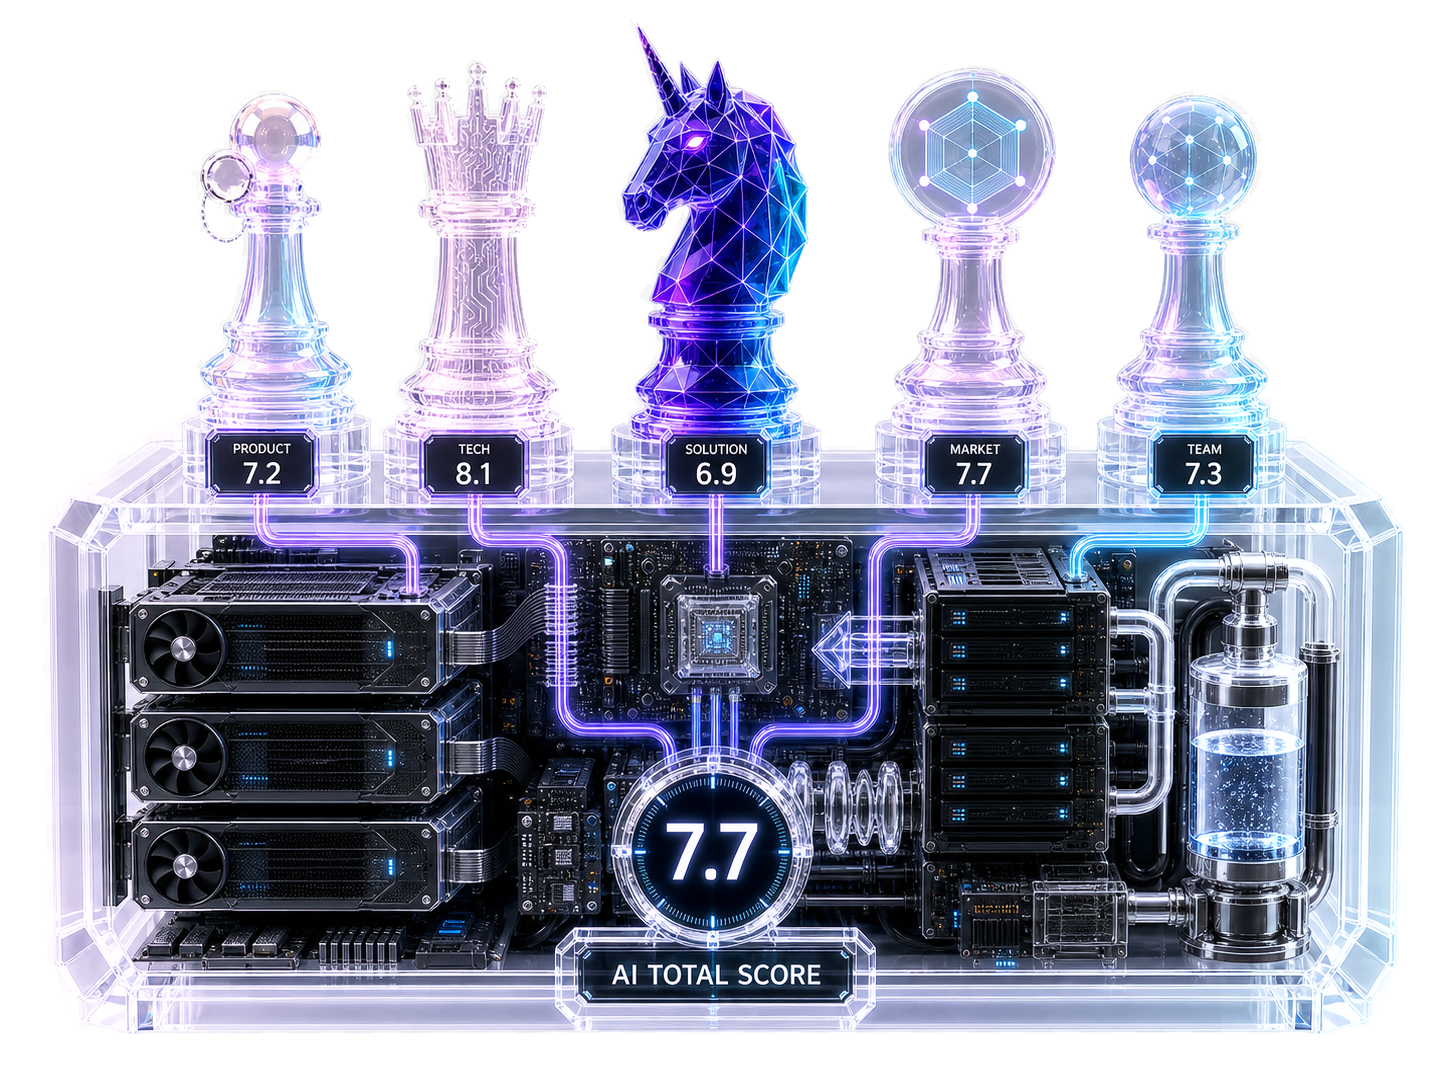
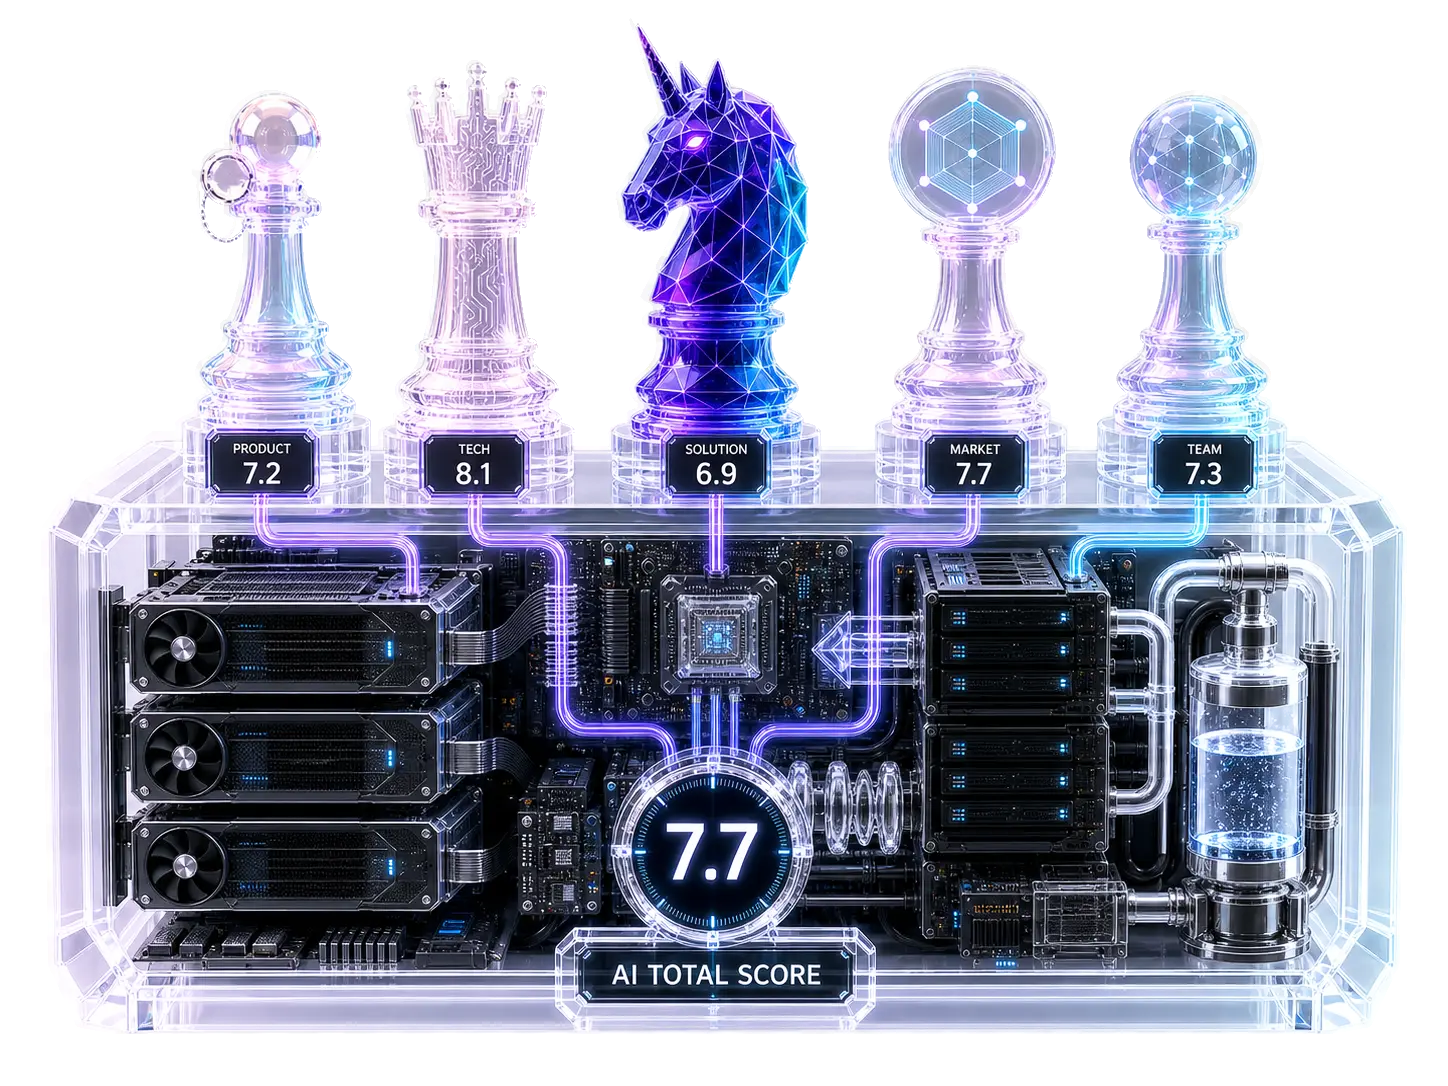
perf: media delivery — posters for 19 bg videos, heavy PNGs → webp
- every background video now ships a mid-frame webp poster (19 new, 24 call
  sites; props existed, were never passed)
- 4 heavy PNGs converted to webp (observatory 1.8MB→204KB, roadmap 1.36MB→382KB,
  panel-frame 1.17MB→639KB @1920px, pricing flatlay 655KB→207KB), originals dropped
- 2 oversized webp recompressed (score-machine 1.6MB→322KB, source-map 1.3MB→534KB)

diff --git a/web/src/app/trust/consistency-reliability/page.tsx b/web/src/app/trust/consistency-reliability/page.tsx
@@ -243,7 +243,10 @@ export default function ConsistencyReliabilityPage() {
           lines={["Reliable scoring is", "built, not assumed"]}
           mobileLines={["Reliable scoring", "is built,", "not assumed"]}
           sub="Fixed criteria, independent judges, deterministic aggregation, and visible disagreement make every result easier to inspect — reliability is engineered into the pipeline, not taken on faith."
-          media={{ videoSrc: "/assets/consistency/consistency-cta-bg.mp4" }}
+          media={{
+            videoSrc: "/assets/consistency/consistency-cta-bg.mp4",
+            poster: "/assets/consistency/consistency-cta-bg-poster.webp",
+          }}
         />
 
         {/* 4. Two layers — EditorialSplit, soft. */}
@@ -509,7 +512,11 @@ export default function ConsistencyReliabilityPage() {
             <div className="cr-bench-grid">
               <div className="cr-bench-video" aria-hidden="true">
                 {/* deep below the fold — viewport-gated fetch */}
-                <LazyVideo src="/assets/consistency/benchmark-bg.mp4" ariaHidden />
+                <LazyVideo
+                  src="/assets/consistency/benchmark-bg.mp4"
+                  poster="/assets/consistency/benchmark-bg-poster.webp"
+                  ariaHidden
+                />
               </div>
               <div className="cr-bench-col">
                 <BenchCard s={BENCHMARK_STATS[0]} />
@@ -627,6 +634,7 @@ export default function ConsistencyReliabilityPage() {
                     (not a continuous native loop) — see DelayedLoopVideo. */}
                 <DelayedLoopVideo
                   src="/assets/consistency/honest-edge-bg.mp4"
+                  poster="/assets/consistency/honest-edge-bg-poster.webp"
                   gap={7}
                 />
               </div>
@@ -655,6 +663,7 @@ export default function ConsistencyReliabilityPage() {
           headingLevel="h2"
           background="video"
           backgroundSrc="/assets/consistency/consistency-cta-bg-2.mp4"
+          backgroundPoster="/assets/consistency/consistency-cta-bg-2-poster.webp"
           eyebrow="Get started"
           titleLead="See how stable the scores are on"
           titleAccent="your own decks"

diff --git a/web/src/app/company/about/page.tsx b/web/src/app/company/about/page.tsx
@@ -232,7 +232,7 @@ export default function AboutPage() {
                 layout). */}
             <Image
               className="ab-hero__media ab-hero__media--img ev-drift"
-              src="/assets/entry-hub/evallense-observatory-hero-01.png"
+              src="/assets/entry-hub/evallense-observatory-hero-01.webp"
               alt="A stream of startup applications passing through a glass lens and becoming structured evidence, risk signals, score cards, and reviewer questions"
               width={1536}
               height={1024}
@@ -327,7 +327,7 @@ export default function AboutPage() {
                     removed in favour of this single image. */}
                 <ParallaxFloat
                   className="ab-story__media ab-story__media--img"
-                  src="/assets/methodology/eval-lens-roadmap-vertical-02.png"
+                  src="/assets/methodology/eval-lens-roadmap-vertical-02.webp"
                   alt="The EvalLense origin journey: from AI Jury and a hackathon, through brainstorming and lens parts, to the Evaluation Lens and EvalLense"
                   width={781}
                   height={1857}
@@ -359,7 +359,10 @@ export default function AboutPage() {
             "people see clearly",
             "before they decide.",
           ]}
-          media={{ videoSrc: "/assets/about/about-story-cinema.mp4" }}
+          media={{
+            videoSrc: "/assets/about/about-story-cinema.mp4",
+            poster: "/assets/about/about-story-cinema-poster.webp",
+          }}
         />
 
         {/* 4. Our principles — bento, light. Authored, verbatim. */}
@@ -601,6 +604,7 @@ export default function AboutPage() {
           sub="Book a demo to walk through the workflow, review example reports, and see how EvalLense helps your team compare applications without giving up human control."
           primary={{ label: "Book a Demo", href: "/#demo" }}
           videoSrc="/assets/about/about-cta-bg.mp4"
+          videoPoster="/assets/about/about-cta-bg-poster.webp"
         />
       </main>
       <Footer variant="dark" />

diff --git a/web/src/app/trust/methodology/page.tsx b/web/src/app/trust/methodology/page.tsx
@@ -599,6 +599,7 @@ export default function MethodologyPage() {
             }}
             videoScrub={{
               src: "/assets/methodology/methodology-transition.mp4",
+              poster: "/assets/methodology/methodology-transition-poster.webp",
               frames: 0,
               ariaLabel:
                 "Methodology transition — scrubbed by scroll through the stages",
@@ -691,7 +692,14 @@ export default function MethodologyPage() {
           <section id="control" className="band soft ds-split" aria-label="Where the human decides">
             <div className="wrap ds-split__grid ds-split__grid--mirror" data-version={2}>
               <figure className="ds-split__media ds-split__media--video" data-reveal="left" aria-hidden="true">
-                <video data-play-once data-replay-delay="7000" muted playsInline preload="metadata">
+                <video
+                  data-play-once
+                  data-replay-delay="7000"
+                  muted
+                  playsInline
+                  preload="metadata"
+                  poster="/assets/methodology/hitl-loop-poster.webp"
+                >
                   <source src="/assets/methodology/hitl-loop.mp4" type="video/mp4" />
                 </video>
               </figure>
@@ -798,7 +806,10 @@ export default function MethodologyPage() {
           mobileLines={["Follow one score", "from slide to final call"]}
           sub="Open a sample evaluation and trace one score from slide evidence to rubric band, judge output, AI Total Score, and final Jury Score."
           cta={{ label: "Book a Demo", href: "/company/contact" }}
-          media={{ videoSrc: "/assets/methodology/methodology-transition.mp4" }}
+          media={{
+            videoSrc: "/assets/methodology/methodology-transition.mp4",
+            poster: "/assets/methodology/methodology-transition-poster.webp",
+          }}
           maskId="methodology-final-cta"
         />
       </main>

diff --git a/web/src/components/sections/IcpBento.tsx b/web/src/components/sections/IcpBento.tsx
@@ -43,6 +43,8 @@ type IcpCard = {
   titleAccent?: string;
   outputs?: readonly string[];
   video?: string;
+  /* Still frame shown while the background video loads. */
+  videoPoster?: string;
   /* When set, a transparent product render replaces the SVG/CSS abstract. */
   image?: string;
 };
@@ -106,6 +108,7 @@ const ICP_CARDS: readonly IcpCard[] = [
     size: "tile",
     visual: "arena",
     video: "/assets/about/hackathons-bg.mp4",
+    videoPoster: "/assets/about/hackathons-bg-poster.webp",
   },
   {
     key: "accel",
@@ -134,6 +137,7 @@ const ICP_CARDS: readonly IcpCard[] = [
     size: "tile",
     visual: "scale",
     video: "/assets/about/grants-bg.mp4",
+    videoPoster: "/assets/about/grants-bg-poster.webp",
   },
   {
     key: "corp",
@@ -148,6 +152,7 @@ const ICP_CARDS: readonly IcpCard[] = [
     size: "tile",
     visual: "filter",
     video: "/assets/about/corp-datastream.mp4",
+    videoPoster: "/assets/about/corp-datastream-poster.webp",
   },
   {
     key: "uni",
@@ -162,6 +167,7 @@ const ICP_CARDS: readonly IcpCard[] = [
     size: "tile",
     visual: "constellation",
     video: "/assets/about/universities-bg.mp4",
+    videoPoster: "/assets/about/universities-bg-poster.webp",
   },
   {
     key: "angel",
@@ -597,6 +603,7 @@ export function IcpBento(): ReactElement {
                   muted
                   loop
                   playsInline
+                  poster={c.videoPoster}
                   aria-hidden="true"
                 >
                   <source src={c.video} type="video/mp4" />

diff --git a/web/src/app/product/evidence-based-reports/page.tsx b/web/src/app/product/evidence-based-reports/page.tsx
@@ -381,7 +381,10 @@ export default function EvidenceBasedReportsPage() {
           lines={["Explain the score.", "Defend the decision."]}
           mobileLines={["Explain", "the score.", "Defend", "the decision."]}
           sub="EvalLense shows what shaped the score and links each finding back to the deck. Your team can defend the shortlist, explain the feedback, and know what to ask next."
-          media={{ videoSrc: "/assets/evidence-reports/beyond-number-cinema.mp4" }}
+          media={{
+            videoSrc: "/assets/evidence-reports/beyond-number-cinema.mp4",
+            poster: "/assets/evidence-reports/beyond-number-cinema-poster.webp",
+          }}
         />
 
         {/* 3. Anatomy — pinned multi-screen, exactly 3 layers. */}
@@ -527,7 +530,10 @@ export default function EvidenceBasedReportsPage() {
           mobileLines={["AI prepares.", "You decide."]}
           sub="See a real report on your own deck — book a demo and walk through a full evaluation report: summary, reasoning, and the questions to ask live."
           cta={{ label: "Book a Demo", href: "/#demo" }}
-          media={{ videoSrc: "/assets/methodology/cinema.mp4" }}
+          media={{
+            videoSrc: "/assets/methodology/cinema.mp4",
+            poster: "/assets/methodology/cinema-poster.webp",
+          }}
         />
       </main>
       <Footer variant="dark" />

diff --git a/web/src/app/product/review-board/page.tsx b/web/src/app/product/review-board/page.tsx
@@ -231,7 +231,10 @@ export default function ReviewBoardPage() {
           lines={["See the whole batch", "at a glance"]}
           mobileLines={["See the whole", "batch at a glance"]}
           sub="Each startup has one clear status, so you can see what is ready, in review, scored, or blocked without opening every report."
-          media={{ videoSrc: "/assets/review-board/batch-status-cinema.mp4" }}
+          media={{
+            videoSrc: "/assets/review-board/batch-status-cinema.mp4",
+            poster: "/assets/review-board/batch-status-cinema-poster.webp",
+          }}
         />
 
         {/* ── tone-flip seam (§5 → §6): light→dark — fades the SECOND dark layer
@@ -353,6 +356,7 @@ export default function ReviewBoardPage() {
         <CtaBand
           theme="dark"
           videoSrc="/assets/cta/cube-1.mp4"
+          videoPoster="/assets/cta/cube-1-poster.webp"
           eyebrow="Decision trail"
           title="AI advises. Your Jury Scores"
           titleAccent="decide."

diff --git a/web/src/app/pricing/page.tsx b/web/src/app/pricing/page.tsx
@@ -714,7 +714,10 @@ export default function PricingPage() {
           eyebrow="How it works"
           headline="From submission to shortlist"
           sub="Each submission is reviewed by six AI judges, linked to evidence, and placed in a leaderboard for human review."
-          media={{ videoSrc: "/assets/cta/cube-1.mp4" }}
+          media={{
+            videoSrc: "/assets/cta/cube-1.mp4",
+            poster: "/assets/cta/cube-1-poster.webp",
+          }}
         />
 
         {/* ink → ink after Cinema (§5 Bento is ink — no tonal flip). */}
@@ -757,6 +760,7 @@ export default function PricingPage() {
           primary={{ label: "Book a demo", href: "/company/contact" }}
           secondary={{ label: "Start free", href: "/company/contact" }}
           videoSrc="/assets/cta/neo.mp4"
+          videoPoster="/assets/cta/neo-poster.webp"
         />
       </main>
       <Footer variant="dark" />

diff --git a/web/src/components/PricingToolkitCard.tsx b/web/src/components/PricingToolkitCard.tsx
@@ -100,7 +100,7 @@ export function PricingToolkitCard() {
     <div className="pricing-toolkit-card">
       <Image
         className="pricing-toolkit-card__image"
-        src="/assets/pricing/glass-evaluation-toolkit-flatlay-portrait-01.png"
+        src="/assets/pricing/glass-evaluation-toolkit-flatlay-portrait-01.webp"
         alt="Glass table laid out with startup-evaluation tools: pitch-deck cards, six judge lenses (P1–P6), the EvalLense scoring lens, score and confidence dials, a criteria ruler, a compare caliper, evidence pins, a red-flag marker, a final-decision stamp, and a pay-per-event token"
         fill
         sizes="(max-width:880px) 80vw, 360px"

diff --git a/web/src/app/trust/use-cases/SampleOutputSection.tsx b/web/src/app/trust/use-cases/SampleOutputSection.tsx
@@ -22,13 +22,13 @@ export function SampleOutputSection() {
           {/* eslint-disable-next-line @next/next/no-img-element */}
           <img
             className="uc2-panel-frame"
-            src="/assets/use-cases/panel-frame.png"
+            src="/assets/use-cases/panel-frame.webp"
             alt=""
             aria-hidden="true"
             loading="lazy"
             decoding="async"
-            width={2800}
-            height={1700}
+            width={1920}
+            height={1166}
           />
 
           {/* 4. Internal report tabs + 5. default Project Summary view */}

diff --git a/web/src/app/trust/use-cases/page.tsx b/web/src/app/trust/use-cases/page.tsx
@@ -537,6 +537,7 @@ export default function UseCasesPage() {
           primary={{ label: "Book a workflow call", href: "/company/contact" }}
           secondary={{ label: "Try sample workspace", href: "/try-live-demo" }}
           videoSrc="/assets/cta/cube-1.mp4"
+          videoPoster="/assets/cta/cube-1-poster.webp"
           auroraVariant="violet"
         />
 

diff --git a/web/src/app/company/contact/page.tsx b/web/src/app/company/contact/page.tsx
@@ -396,6 +396,7 @@ export default async function ContactPage() {
         <CtaBand
           theme="dark"
           videoSrc="/assets/contact/get-started-bg.mp4"
+          videoPoster="/assets/contact/get-started-bg-poster.webp"
           eyebrow="Get started"
           title="See EvalLense run on"
           titleAccent="your own applications"

diff --git a/web/src/app/one-pager/page.tsx b/web/src/app/one-pager/page.tsx
@@ -467,6 +467,7 @@ export default function OnePagerPage() {
           <CtaBand
             theme="dark"
             videoSrc="/assets/cta/cube-1.mp4"
+            videoPoster="/assets/cta/cube-1-poster.webp"
             eyebrow="START"
             title="Run a pilot on a real application"
             titleAccent="stream"
